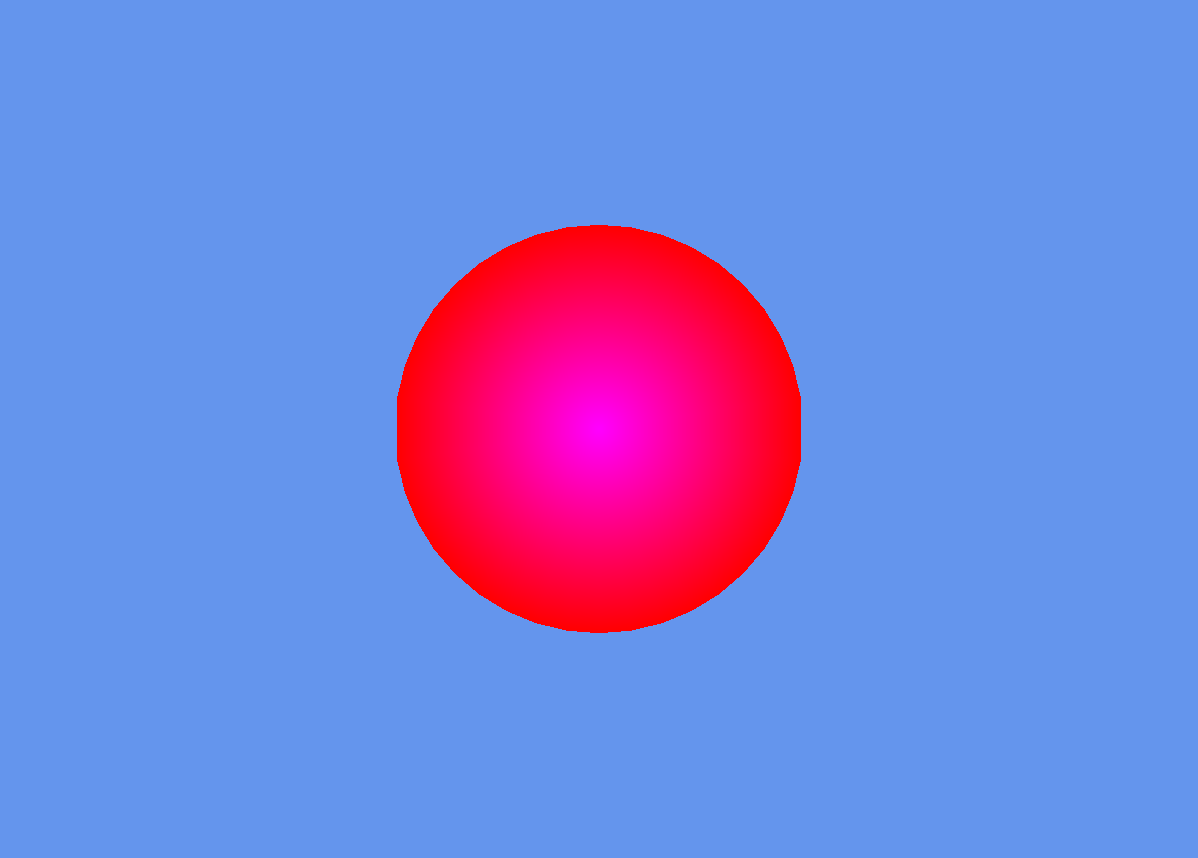
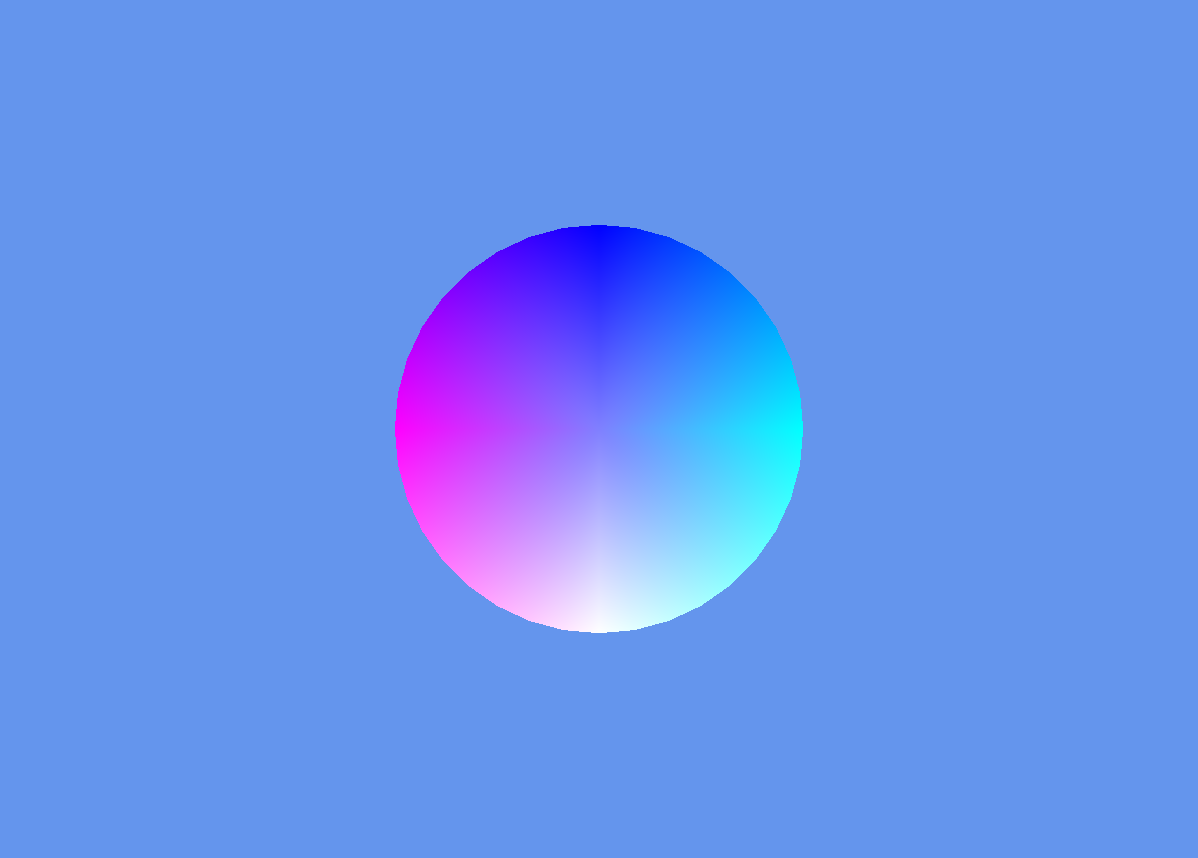
Made second circle rainbow, and added initial pause button.

Changed region(s): [[0.3088, 0.2424, 0.6795, 0.7576]]

diff --git a/DirectXSampleLibrary/MainPage.xaml b/DirectXSampleLibrary/MainPage.xaml
@@ -128,6 +128,7 @@
         </Canvas>
 
         <CommandBar Grid.Row="1" Grid.Column="0" Grid.ColumnSpan="2" Background="Black" Foreground="White">
+            <AppBarToggleButton x:Name="UpdateStateToggleButton" Icon="Pause" Label="Pause Update" Foreground="White" Click="toggleUpdatePause"/>
             <AppBarButton Icon="Camera" Label="Save Image" Foreground="White" Click="captureScreenImage"/>
             <AppBarToggleButton Icon="Video" Label="Save Clip" Foreground="White" Click="toggleClipCapture"/>
         </CommandBar>

diff --git a/DirectXSampleLibrary/Scenes/Renderables/CircleRenderableV2.cpp b/DirectXSampleLibrary/Scenes/Renderables/CircleRenderableV2.cpp
@@ -177,7 +177,7 @@ void GraphicsScenes::CircleRenderableV2::createDeviceDependentResources()
     // Once both shaders are loaded, create the mesh.
     auto createCircleTask = (createPSTask && createVSTask).then([this, d3dContext]() {
 
-        static const int verticesInQuadrant = 10;
+        static const int verticesInQuadrant = 2;
 
         UpdateNumberOfVertices(verticesInQuadrant);
         });
@@ -199,7 +199,8 @@ std::vector<VertexPositionColor> GraphicsScenes::CircleRenderableV2::calculateVe
     std::vector<VertexPositionColor> quadrantVertices;
 
     // Top right quadrant
-    for (float currentTheta = 0; currentTheta <= quadrantTheta; currentTheta += incrementTheta)
+    int step = 0;
+    for (float currentTheta = 0; currentTheta <= quadrantTheta; currentTheta += incrementTheta, step++)
     {
         // using the following two formula:
         // yp_2 = yp_1 - r * (1-cos(theta))
@@ -207,22 +208,22 @@ std::vector<VertexPositionColor> GraphicsScenes::CircleRenderableV2::calculateVe
         float newXPoint = beginningPoint.x + radius * sinf(currentTheta);
         float newYPoint = beginningPoint.y - radius * (1 - cosf(currentTheta));
 
-        quadrantVertices.push_back(VertexPositionColor{ XMFLOAT3(newXPoint, newYPoint, 0), XMFLOAT3(1.0f, 0.0f, 0.0f) });
+        quadrantVertices.push_back(VertexPositionColor{ XMFLOAT3(newXPoint, newYPoint, 0), getNextColor(Quadrant::FIRST_QUADRANT, step, verticesInQuadrant) });
     }
 
     std::vector<VertexPositionColor> circleVirtices;
-    circleVirtices.push_back(VertexPositionColor{ centerPosition, XMFLOAT3(1.0f, 0.0f, 1.0f) });
+    circleVirtices.push_back(VertexPositionColor{ centerPosition, getNextColor(Quadrant::CENTER, 0, 0) });
     circleVirtices.insert(circleVirtices.end(), quadrantVertices.begin(), quadrantVertices.end());
 
     // Bottom right quadrant
-    for (int i = quadrantVertices.size() - 1; i >= 0; i--)
+    for (int i = quadrantVertices.size() - 1, step = 0; i >= 0; i--, step++)
     {
         if (quadrantVertices[i].pos.y == 0.0f)
         {
             continue;
         }
 
-        circleVirtices.push_back(VertexPositionColor{ XMFLOAT3(quadrantVertices[i].pos.x, -quadrantVertices[i].pos.y, quadrantVertices[i].pos.z), quadrantVertices[i].color });
+        circleVirtices.push_back(VertexPositionColor{ XMFLOAT3(quadrantVertices[i].pos.x, -quadrantVertices[i].pos.y, quadrantVertices[i].pos.z), getNextColor(Quadrant::SECOND_QUADRANT, step, verticesInQuadrant) });
     }
 
     // Bottom left quadrant
@@ -233,18 +234,18 @@ std::vector<VertexPositionColor> GraphicsScenes::CircleRenderableV2::calculateVe
             continue;
         }
 
-        circleVirtices.push_back(VertexPositionColor{ XMFLOAT3(-quadrantVertices[i].pos.x, -quadrantVertices[i].pos.y, quadrantVertices[i].pos.z), quadrantVertices[i].color });
+        circleVirtices.push_back(VertexPositionColor{ XMFLOAT3(-quadrantVertices[i].pos.x, -quadrantVertices[i].pos.y, quadrantVertices[i].pos.z), getNextColor(Quadrant::THIRD_QUADRANT, i, verticesInQuadrant) });
     }
 
     // Top left quadrant
-    for (int i = quadrantVertices.size() - 1; i >= 0; i--)
+    for (int i = quadrantVertices.size() - 1, step = 0; i >= 0; i--, step++)
     {
         if (quadrantVertices[i].pos.y == 0.0f)
         {
             continue;
         }
 
-        circleVirtices.push_back(VertexPositionColor{ XMFLOAT3(-quadrantVertices[i].pos.x, quadrantVertices[i].pos.y, quadrantVertices[i].pos.z), quadrantVertices[i].color });
+        circleVirtices.push_back(VertexPositionColor{ XMFLOAT3(-quadrantVertices[i].pos.x, quadrantVertices[i].pos.y, quadrantVertices[i].pos.z), getNextColor(Quadrant::FOURTH_QUADRANT, step, verticesInQuadrant) });
     }
 
     return circleVirtices;
@@ -270,4 +271,36 @@ std::vector<unsigned short> GraphicsScenes::CircleRenderableV2::calculateIndices
     }
 
     return indices;
+}
+
+DirectX::XMFLOAT3 GraphicsScenes::CircleRenderableV2::getNextColor(Quadrant currentQuadrant, int currentStep, int maxSteps)
+{
+    static const XMFLOAT3 firstQuadrantColor(0, 0, 1);
+    static const XMFLOAT3 secondQuadrantColor(0, 1, 1);
+    static const XMFLOAT3 thirdQuadrantColor(0, 1, 0);
+    static const XMFLOAT3 fourthQuadrantColor(1, 0, 0);
+
+    XMFLOAT3 nextColor = defaultCircleColor;
+    // Optional to return a single color if a color is set.
+    switch (currentQuadrant)
+    {
+    case Quadrant::FIRST_QUADRANT:
+        nextColor = DXResources::InterpolateColor(firstQuadrantColor, secondQuadrantColor, currentStep, maxSteps);
+        break;
+    case Quadrant::SECOND_QUADRANT:
+        nextColor = DXResources::InterpolateColor(secondQuadrantColor, thirdQuadrantColor, currentStep, maxSteps);
+        break;
+    case Quadrant::THIRD_QUADRANT:
+        nextColor = DXResources::InterpolateColor(thirdQuadrantColor, fourthQuadrantColor, currentStep, maxSteps);
+        break;
+    case Quadrant::FOURTH_QUADRANT:
+        nextColor = DXResources::InterpolateColor(fourthQuadrantColor, firstQuadrantColor, currentStep, maxSteps);
+        break;
+    case Quadrant::CENTER:
+        nextColor = DXResources::InterpolateFourEqualColor(firstQuadrantColor, secondQuadrantColor, thirdQuadrantColor, fourthQuadrantColor);
+    default:
+        break;
+    }
+
+    return nextColor;
 }

diff --git a/DirectXSampleLibrary/DirectXHelper.h b/DirectXSampleLibrary/DirectXHelper.h
@@ -37,6 +37,104 @@ namespace DXResources
         return sqrt(distance);
     }
 
+    inline float HueToRGB(float p, float q, float t)
+    {
+        if (t < 0.0f) t += 1.0f;
+        if (t > 1.0f) t -= 1.0f;
+        if (t < 1.0f / 6.0f) return p + (q - p) * 6.0f * t;
+        if (t < 1.0f / 2.0f) return q;
+        if (t < 2.0f / 3.0f) return p + (q - p) * (2.0f / 3.0f - t) * 6.0f;
+        return p;
+    }
+
+    inline XMFLOAT3 ConvertHSLToRGB(XMFLOAT3 HSLValue)
+    {
+        float r, g, b;
+
+        if (HSLValue.y == 0.0f)
+            r = g = b = HSLValue.z;
+
+        else
+        {
+            auto q = HSLValue.z < 0.5f ? HSLValue.z * (1.0f + HSLValue.y) : HSLValue.z + HSLValue.y - HSLValue.z * HSLValue.y;
+            auto p = 2.0f * HSLValue.z - q;
+            r = HueToRGB(p, q, HSLValue.x + 1.0f / 3.0f);
+            g = HueToRGB(p, q, HSLValue.x);
+            b = HueToRGB(p, q, HSLValue.x - 1.0f / 3.0f);
+        }
+
+        return XMFLOAT3(r, g, b);
+    }
+
+    inline XMFLOAT3 ConvertRGBToHSL(XMFLOAT3 RGBValue)
+    {
+        float r = RGBValue.x;
+        float g = RGBValue.y;
+        float b = RGBValue.z;
+
+        float max = (r > g && r > b) ? r : (g > b) ? g : b;
+        float min = (r < g&& r < b) ? r : (g < b) ? g : b;
+
+        float h, s, l;
+        h = s = l = (max + min) / 2.0f;
+
+        if (max == min)
+            h = s = 0.0f;
+
+        else
+        {
+            float d = max - min;
+            s = (l > 0.5f) ? d / (2.0f - max - min) : d / (max + min);
+
+            if (r > g && r > b)
+                h = (g - b) / d + (g < b ? 6.0f : 0.0f);
+
+            else if (g > b)
+                h = (b - r) / d + 2.0f;
+
+            else
+                h = (r - g) / d + 4.0f;
+
+            h /= 6.0f;
+        }
+
+        return XMFLOAT3(h, s, l);
+    }
+
+    inline XMFLOAT3 InterpolateColor(XMFLOAT3 startingColor, XMFLOAT3 endingColor, float currentStep, float maxSteps)
+    {
+        if (currentStep == 0)
+        {
+            return startingColor;
+        }
+        else if (currentStep == maxSteps)
+        {
+            return endingColor;
+        }
+
+        auto interpolatedVector = DirectX::XMVectorLerp(XMLoadFloat3(&startingColor), XMLoadFloat3(&endingColor), currentStep / maxSteps);
+
+
+        XMFLOAT3 finalRGB;
+        XMStoreFloat3(&finalRGB, interpolatedVector);
+        
+        return finalRGB;
+    }
+
+    inline XMFLOAT3 InterpolateFourEqualColor(XMFLOAT3 color1, XMFLOAT3 color2, XMFLOAT3 color3, XMFLOAT3 color4)
+    {
+        auto interpolatedVector1 = DirectX::XMVectorLerp(XMLoadFloat3(&color1), XMLoadFloat3(&color2), .5);
+        auto interpolatedVector2 = DirectX::XMVectorLerp(XMLoadFloat3(&color3), XMLoadFloat3 (&color4), .5);
+
+        auto finalInterpolatedVector = DirectX::XMVectorLerp(interpolatedVector1, interpolatedVector2, .5);
+
+        XMFLOAT3 finalRGB;
+        XMStoreFloat3(&finalRGB, finalInterpolatedVector);
+
+        return finalRGB;
+    }
+
+
     inline std::string make_string(const std::wstring& wstring)
     {
         auto wideData = wstring.c_str();

diff --git a/DirectXSampleLibrary/Scenes/Renderables/CircleRenderableV2.h b/DirectXSampleLibrary/Scenes/Renderables/CircleRenderableV2.h
@@ -14,9 +14,20 @@ namespace GraphicsScenes
         void UpdateNumberOfVertices(const int verticesPerQuadrant);
 
     private:
+
+        enum class Quadrant
+        {
+            FIRST_QUADRANT,
+            SECOND_QUADRANT,
+            THIRD_QUADRANT,
+            FOURTH_QUADRANT,
+            CENTER
+        };
+
         void createDeviceDependentResources();
         std::vector<VertexPositionColor> calculateVerticesForCircle(const int verticesInQuadrant);
         std::vector<unsigned short> calculateIndicesFromNumberOfVertices(const int numberOfVertices);
+        DirectX::XMFLOAT3 getNextColor(Quadrant currentQuadrant, int currentStep, int maxSteps);
 
     private:
         Microsoft::WRL::ComPtr<ID3D11InputLayout>   m_inputLayout;
@@ -29,5 +40,7 @@ namespace GraphicsScenes
         uint32 m_indexCount;
         bool m_loadingComplete;
         int m_vertexCount;
+
+        const DirectX::XMFLOAT3 defaultCircleColor = XMFLOAT3(1.0f, 0.0f, 0.0f);
     };
 }

diff --git a/DirectXSampleLibrary/DirectXMain.cpp b/DirectXSampleLibrary/DirectXMain.cpp
@@ -8,6 +8,7 @@ DXResources::DirectXMain::DirectXMain(std::shared_ptr<DeviceResources> deviceRes
     : m_spDeviceResource(deviceResource)
     , m_renderLoopWorker(nullptr)
     , m_criticalSection()
+    , m_bShouldUpdate(true)
     , m_pCurrentScene(nullptr)
 {
 
@@ -25,8 +26,12 @@ void DXResources::DirectXMain::StartRenderLoop()
         while (action->Status == AsyncStatus::Started)
         {
             critical_section::scoped_lock lock(m_criticalSection);
-            update();
-            
+
+            if (m_bShouldUpdate)
+            {
+                update();
+            }
+
             if (render())
             {
                 // Present

diff --git a/DirectXSampleLibrary/DirectXMain.h b/DirectXSampleLibrary/DirectXMain.h
@@ -25,6 +25,11 @@ namespace DXResources
             }
         }
 
+        void SetUpdateStatus(bool shouldUpdate)
+        {
+            m_bShouldUpdate = shouldUpdate;
+        }
+
         void StartRenderLoop();
 
     private:
@@ -34,6 +39,7 @@ namespace DXResources
         std::shared_ptr<DeviceResources> m_spDeviceResource;
         Windows::Foundation::IAsyncAction^ m_renderLoopWorker;
         Concurrency::critical_section m_criticalSection;
+        bool m_bShouldUpdate;
 
         // Not owned by DirectXMain so don't delete.
         GraphicsScenes::IScene* m_pCurrentScene;

diff --git a/DirectXSampleLibrary/MainPage.xaml.h b/DirectXSampleLibrary/MainPage.xaml.h
@@ -43,5 +43,6 @@ namespace DirectXSampleLibrary::View
         void swapChainPanel_SizeChanged(Platform::Object^ sender, Windows::UI::Xaml::SizeChangedEventArgs^ e);
         void captureScreenImage(Platform::Object^ sender, Windows::UI::Xaml::RoutedEventArgs^ e);
         void toggleClipCapture(Platform::Object^ sender, Windows::UI::Xaml::RoutedEventArgs^ e);
+        void toggleUpdatePause(Platform::Object^ sender, Windows::UI::Xaml::RoutedEventArgs^ e);
     };
 }

diff --git a/DirectXSampleLibrary/MainPage.xaml.cpp b/DirectXSampleLibrary/MainPage.xaml.cpp
@@ -107,3 +107,9 @@ void MainPage::toggleClipCapture(Platform::Object^ sender, Windows::UI::Xaml::Ro
 {
     m_spCaptureManager->SaveClip();
 }
+
+
+void DirectXSampleLibrary::View::MainPage::toggleUpdatePause(Platform::Object^ sender, Windows::UI::Xaml::RoutedEventArgs^ e)
+{
+    m_spDirectxMain->SetUpdateStatus(!UpdateStateToggleButton->IsChecked->Value);
+}
